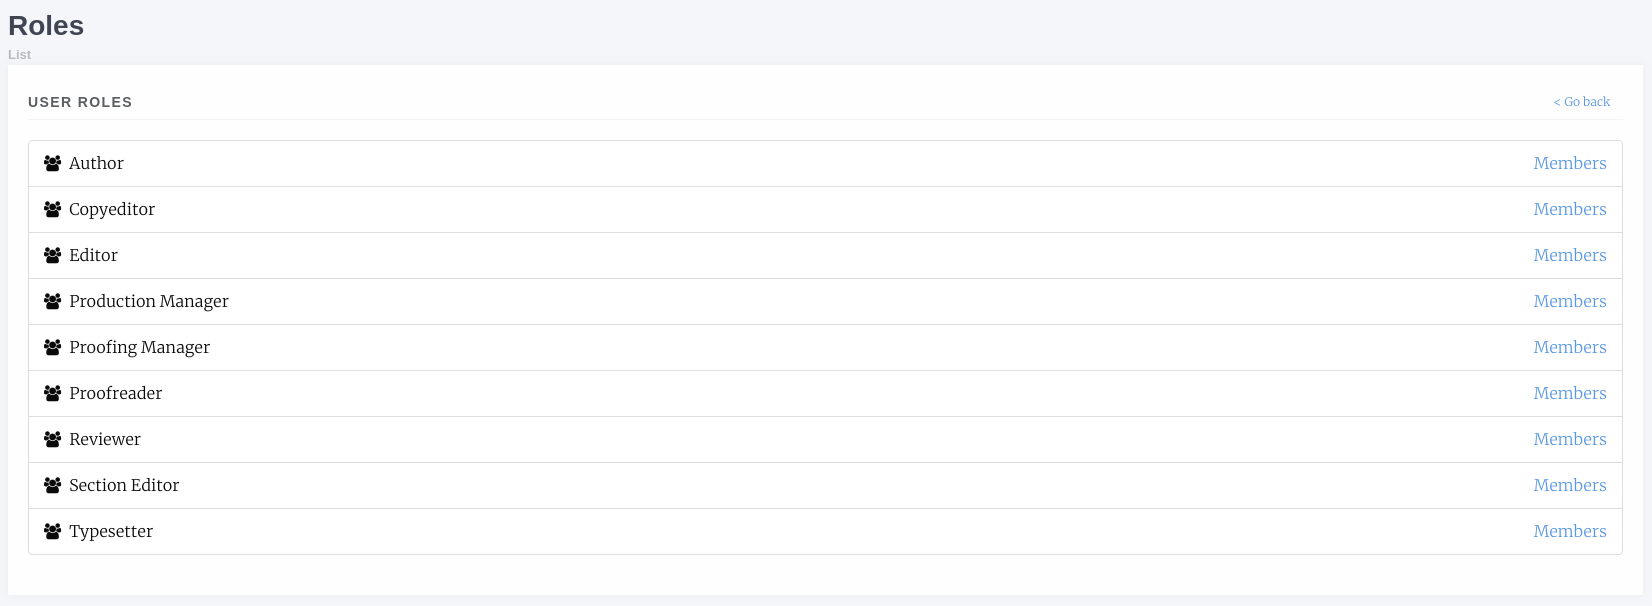
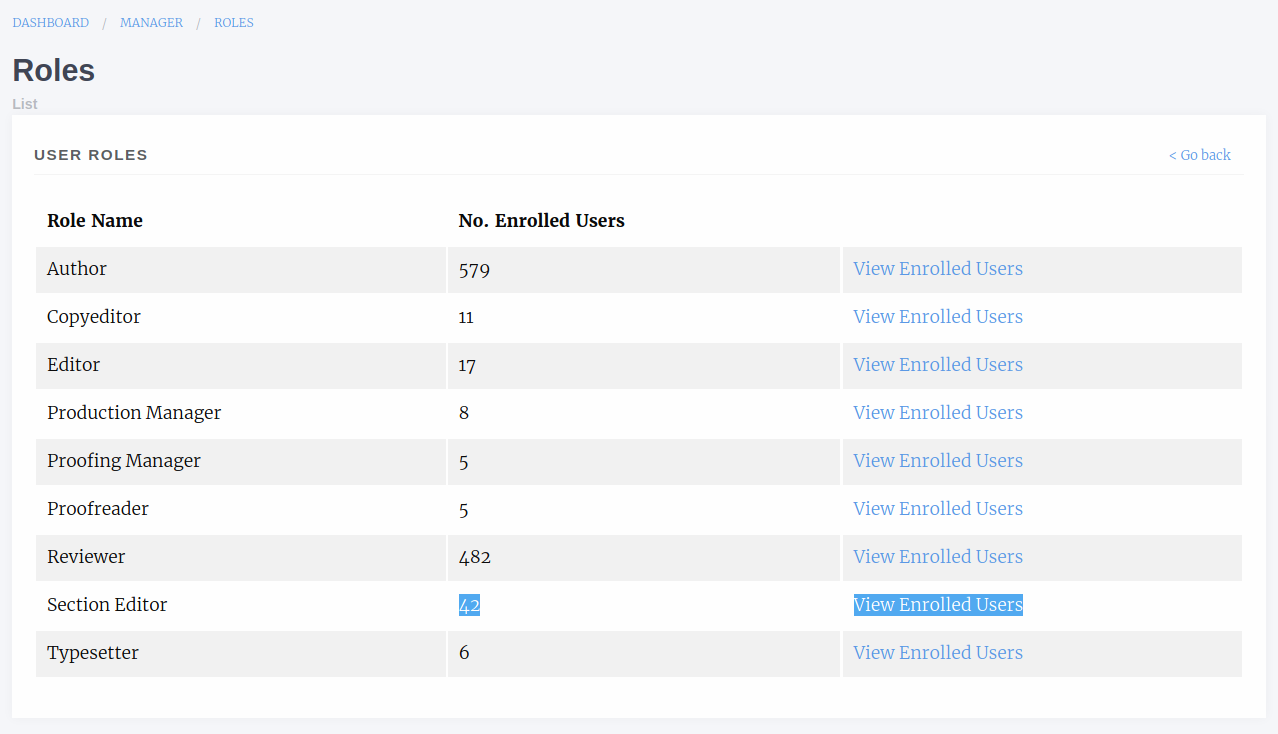
Docs for 1.3.10 - Users

diff --git a/src/templates/admin/core/manager/users/index.html b/src/templates/admin/core/manager/users/index.html
@@ -65,7 +65,8 @@
                                 {% if settings.DEBUG %}
                                     <td>
                                         <button type="submit" class="tiny button" formaction="/hijack/{{ user.id }}/?next={% url 'core_dashboard' %}">
-                                            Hijack User</button>
+                                            Hijack User
+                                        </button>
                                     </td>{% endif %}
                             </tr>
                         {% endfor %}

diff --git a/src/templates/admin/elements/core/user_search_list.html b/src/templates/admin/elements/core/user_search_list.html
@@ -24,7 +24,7 @@
                         formaction="/hijack/{{ user.id }}/?next={% url 'core_dashboard' %}">
                     Hijack User
                 </button>
-g           </td>{% endif %}
+           </td>{% endif %}
     </tr>
     <tr>
         <th colspan="{% if settings.DEBUG %}5{% else %}4{% endif %}">Current Roles</th>

diff --git a/docs/source/conf.py b/docs/source/conf.py
@@ -24,9 +24,9 @@ copyright = '2018, Andy Byers, Mauro Sanchez & Martin Paul Eve'
 author = 'Andy Byers, Mauro Sanchez & Martin Paul Eve'
 
 # The short X.Y version
-version = '1.3.7'
+version = '1.3.10'
 # The full version, including alpha/beta/rc tags
-release = '1.3.7'
+release = '1.3.10'
 
 
 # -- General configuration ---------------------------------------------------

diff --git a/docs/source/manager/users/index.rst b/docs/source/manager/users/index.rst
@@ -1,14 +1,21 @@
 Users
 =====
-The users section allows control of:
+The Users section of the manager has various controls for different permission levels.
 
-- Journal Users
-- Inactive Users (staff only)
-- Roles
-- Authenticated Users (staff only)
+Editors have control of:
 
-Journal Users
--------------
+- Enrolled Users (users who have a role on your journal)
+- Enrolling Users (giving users a role on your journal)
+- Journal Roles (viewing users with a given role)
+
+Staff have additional controls for:
+
+- Inactive Users (users who have not activated their accounts)
+- Authenticated Users (lists users with active sessions)
+- Merge Users (available at the press level)
+
+Enrolled Users
+--------------
 The journal users interface lists all users who have one or more roles on your journal. From this page we can:
 
 - Edit a user
@@ -20,6 +27,10 @@ The journal users interface lists all users who have one or more roles on your j
     - Copyediting assignments
     - Production assignments
 
+.. figure:: ../../nstatic/enrolled_users.png
+
+    The enrolled users interface. From here we can search, add new users and assign additional roles amongst other things.
+
 Editing a User
 ~~~~~~~~~~~~~~
 The edit user interface is relatively standard though there are a few things to note:
@@ -28,9 +39,33 @@ The edit user interface is relatively standard though there are a few things to 
 - Is admin grants access to Janeway's admin data layer
 - Is superuser will set a user to have all roles across the entire system
 
+Enrol Users
+--------------
+.. _enrolusersanchor:
+
+The enrol users page allows Editors to search for existing user accounts and assign them a role in their journal.
+
+.. warning::
+    As of version 1.3.10 of Janeway editors can no longer browse a list of users and must search by name or email address to find existing users.
+
+You can search for existing user accounts by:
+
+- First Name
+- Last Name
+- Email Address
+
+.. tip::
+    You don't need to search by all three fields. You can search by just first name or email address for example.
+
+Once you have found an account you will be able to see which roles they have and which are available to be assigned to them.
+
+.. figure:: ../../nstatic/enrol_user.gif
+
+    This user has two roles (Author and Editor) and can be assigned any of the other roles.
+
 Inactive Users
 --------------
-The inactive users screen is accessible to staff only and lists all users who have not yet activated their account. You are cautonined only to activate accounts that you've confirmed ownership for.
+The inactive users screen is accessible to staff only and lists all users who have not yet activated their account. You are cautioned only to activate accounts that you've confirmed ownership for.
 
 Roles
 -----
@@ -50,12 +85,11 @@ The roles interface presents a list of Janeway's core roles:
 - Section Editor
 - Typesetter
 
-Selecting *Members* for a role will present two lists, one with users who have this role and one with users who do not have this role. You can then use the Add and Remove buttons to assign or unassign roles.
+Once you have selected a role you will be presented with a list of users who currently have that role. There is also an option to remove the role from that user.
 
-.. figure:: ../../nstatic/roles.png
+.. figure:: ../../nstatic/roles.gif
 
-    The roles interface
-    
+
 Authenticated Users
 -------------------
 Presents a list of users who are currently logged into your install of Janeway. Only accessible to staff.

diff --git a/docs/source/installation.rst b/docs/source/installation.rst
@@ -1,21 +1,15 @@
 Installation Guide
 ==================
+There are a number of ways to get Janeway up and running. For development we recommend you use Docker with Postgres as the DB_VENDOR. A Lando configuration is also included.
 
-Janeway includes an environment setup script that will install virtual
-environment, its apt requirements and pip requirements. Please read the
-script to ensure it wont cause any issues with your current install. The
-command can be called directly from the command line:
-
-Ubuntu:
-``wget -O - https://raw.githubusercontent.com/BirkbeckCTP/janeway/master/setup_scripts/ubuntu.sh | bash``
-
-Debian:
-``wget -O - https://raw.githubusercontent.com/BirkbeckCTP/janeway/master/setup_scripts/debian.sh | bash``
-
-This command has been tested in 14.04, 15.04 and 16.04
-
-You should now proceed to “Database Setup and Final Installation”,
-below.
+Docker
+---------
+1. Install docker, docker-compose and make.
+2. From the root directory run `make install`.
+3. Follow instructions on screen.
+4. Once install is complete run `make run` to run the django server.
+5. For Janeway browse `http://localhost`/.
+6. If using Postgres you can also browse `http://localhost:8001` for pgadmin.
 
 Using Lando for a development environment (optional)
 -----------------------------------------------------------------

diff --git a/docs/source/faq.rst b/docs/source/faq.rst
@@ -1,0 +1,18 @@
+Frequently Asked Questions
+==========================
+
+Assigning Users Roles
+---------------------
+Janeway has nine roles.
+
+- Author
+- Editor
+- Section Editor
+- Reviewer
+- Copyeditor
+- Typesetter
+- Proofreader
+- Proofing Manager (this role will be deprecated in version 1.4)
+- Production Manager
+
+To add users to a role you can use the :ref:`Enrol Users<enrolusersanchor>` interface.

diff --git a/docs/source/index.rst b/docs/source/index.rst
@@ -13,6 +13,7 @@ This guide has been written to avoid using language like "easy", "just" or simpl
    :caption: Contents:
 
    installation
+   faq
    workflow
    manager
    styling
